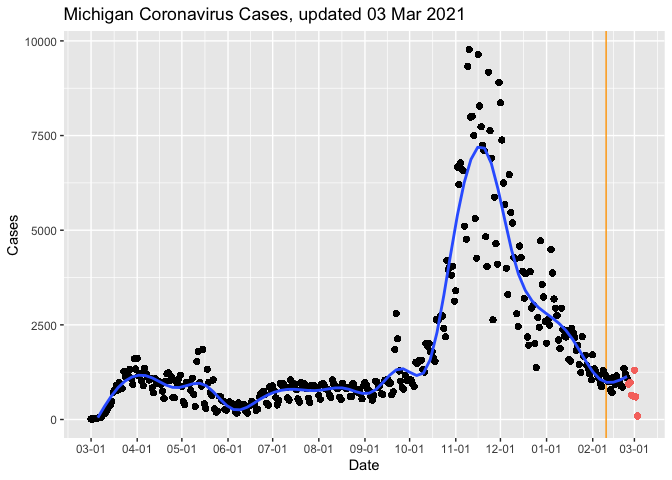
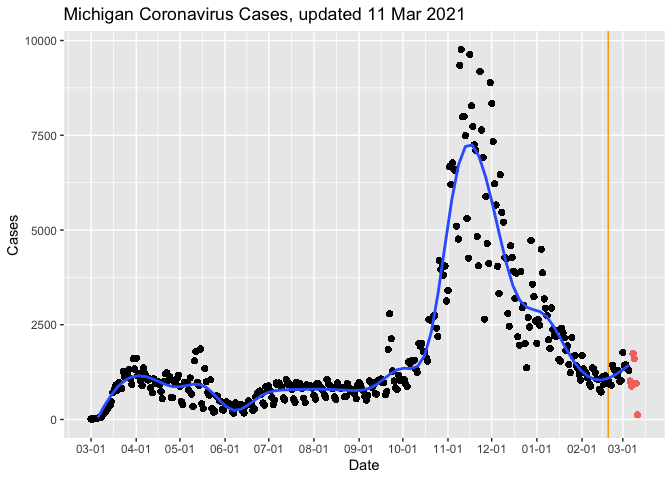
Mar-12 2021 14:33 update

diff --git a/MiCorona.md b/MiCorona.md
@@ -1,7 +1,7 @@
 Michigan COVID Data
 ================
 Adam D. DenHaan
-Mar 03, 2021
+Mar 12, 2021
 
 ``` python
 from urllib.request import urlopen
@@ -34,7 +34,7 @@ mi_data = readxl::read_excel("data/covid.xlsx")
 glimpse(mi_data)
 ```
 
-    ## Rows: 64,777
+    ## Rows: 66,185
     ## Columns: 8
     ## $ COUNTY            <chr> "Alcona", "Alcona", "Alcona", "Alcona", "Alcona", "A…
     ## $ Date              <dttm> 2020-03-01, 2020-03-02, 2020-03-03, 2020-03-04, 202…
@@ -43,7 +43,7 @@ glimpse(mi_data)
     ## $ Deaths            <dbl> 0, 0, 0, 0, 0, 0, 0, 0, 0, 0, 0, 0, 0, 0, 0, 0, 0, 0…
     ## $ Cases.Cumulative  <dbl> 0, 0, 0, 0, 0, 0, 0, 0, 0, 0, 0, 0, 0, 0, 0, 0, 0, 0…
     ## $ Deaths.Cumulative <dbl> 0, 0, 0, 0, 0, 0, 0, 0, 0, 0, 0, 0, 0, 0, 0, 0, 0, 0…
-    ## $ Updated           <dttm> 2021-03-03 13:08:21, 2021-03-03 13:08:21, 2021-03-0…
+    ## $ Updated           <dttm> 2021-03-11 14:37:58, 2021-03-11 14:37:58, 2021-03-1…
 
 Wrangle Data:
 
@@ -97,7 +97,7 @@ mi_cases_by_day_exclusive %>%
 
 ![](MiCorona_files/figure-gfm/viz-1.png)<!-- -->
 
-Note that the last 7 days of data have been colored red on the graph, as
+Note that the last 6 days of data have been colored red on the graph, as
 they frequently change as more information becomes available. Vertical
 orange line at 3 weeks in the past (as hospitalizations usually follow
 cases by three weeks).
